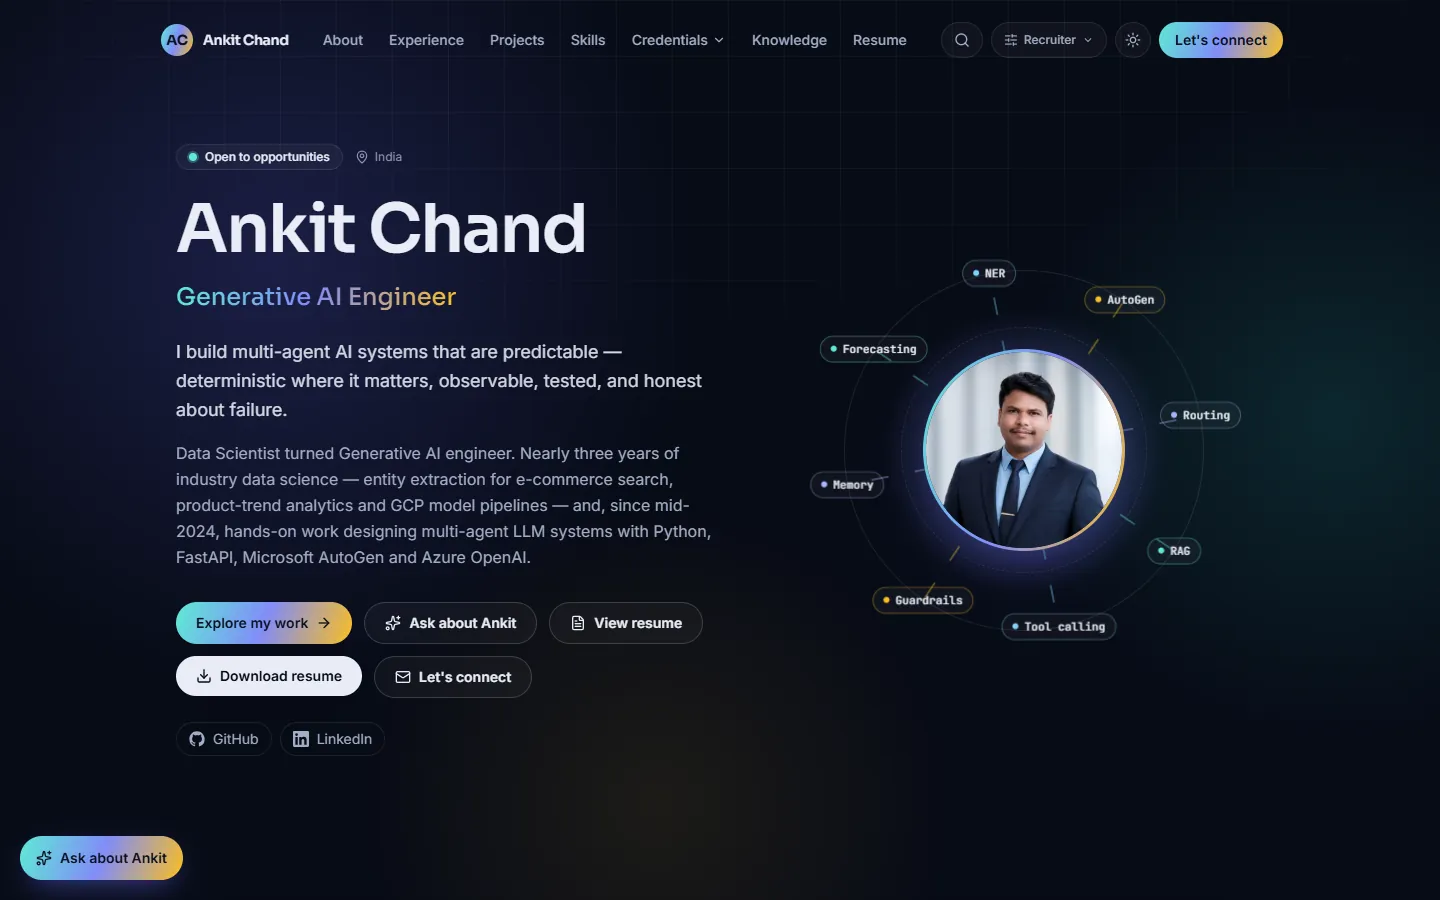
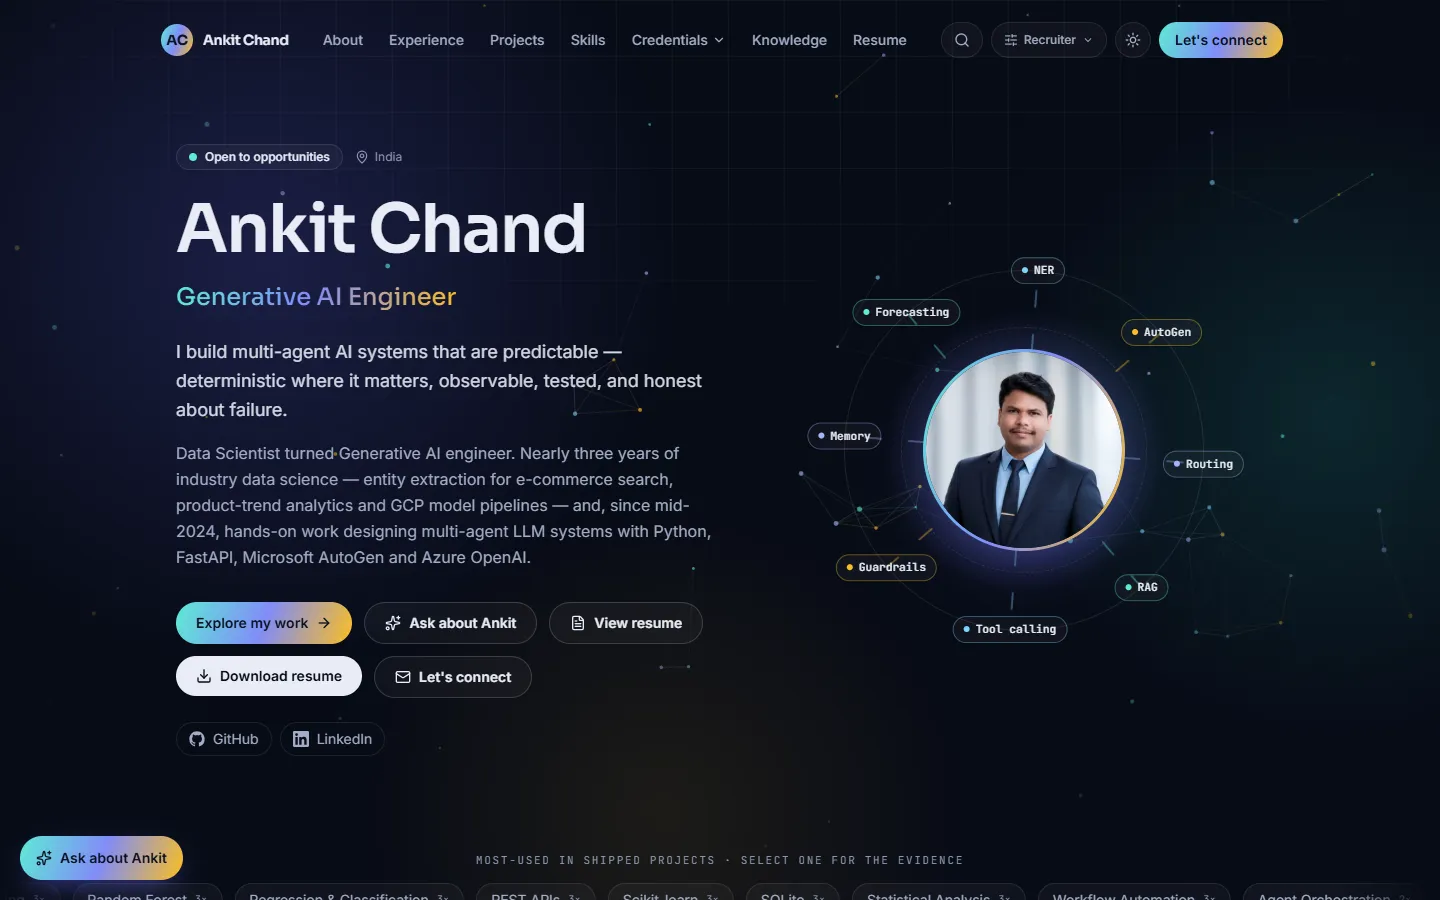
Hero network: keep it away from the text; production QA screenshots (34/34)
- Production review showed the network's dots and lines running behind the body text on
  phones. On desktop it now gathers around the portrait; on single-column layouts it is a
  faint band above the text (readability first).
- docs/screenshots: fresh-profile QA against production, 34/34 clean (WebP).

diff --git a/src/app/globals.css b/src/app/globals.css
@@ -307,17 +307,28 @@ body {
 }
 
 /* ---- hero agent network (canvas, see neural-field.tsx) ---------------------- */
+/* Readability first: on desktop the network gathers around the portrait (right) and fades
+   out behind the text column; on single-column layouts it is a faint band above the text. */
 .neural-field {
   opacity: 0;
   transition: opacity 1.2s ease;
-  mask-image: radial-gradient(ellipse 85% 80% at 55% 40%, #000 35%, transparent 82%);
-  -webkit-mask-image: radial-gradient(ellipse 85% 80% at 55% 40%, #000 35%, transparent 82%);
+  mask-image: radial-gradient(ellipse 62% 95% at 74% 45%, #000 30%, transparent 78%);
+  -webkit-mask-image: radial-gradient(ellipse 62% 95% at 74% 45%, #000 30%, transparent 78%);
 }
 .neural-field[data-ready] {
   opacity: 0.85;
 }
 html:not(.dark) .neural-field[data-ready] {
   opacity: 0.5;
+}
+@media (max-width: 1023px) {
+  .neural-field {
+    mask-image: linear-gradient(180deg, #000, transparent 32%);
+    -webkit-mask-image: linear-gradient(180deg, #000, transparent 32%);
+  }
+  .neural-field[data-ready] {
+    opacity: 0.6;
+  }
 }
 
 /* ---- reading progress (CSS scroll-driven animation; no JavaScript) ---------- */
